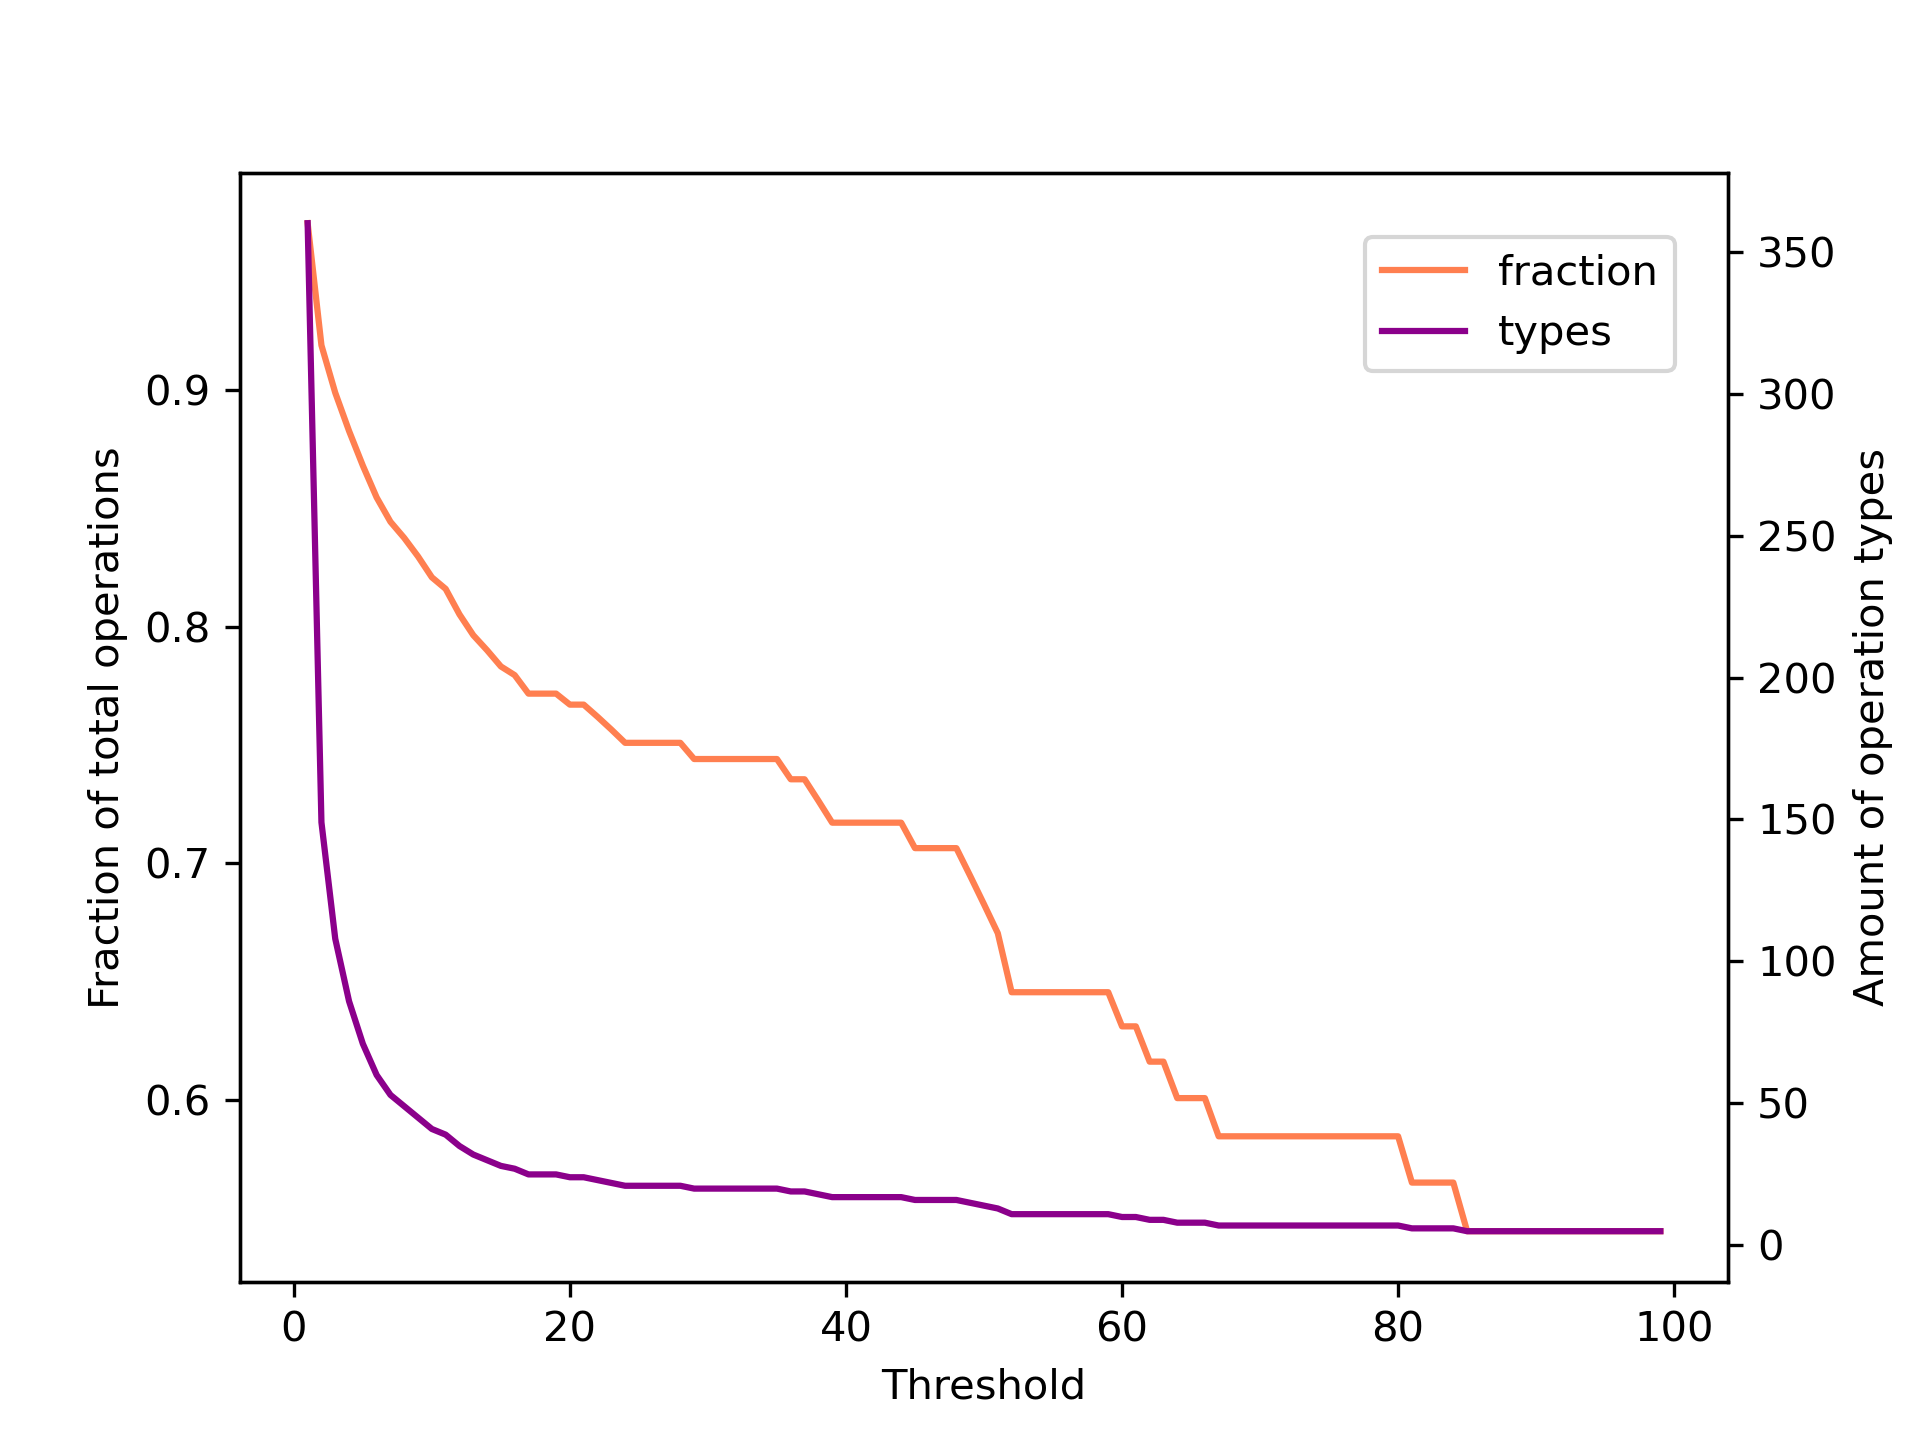
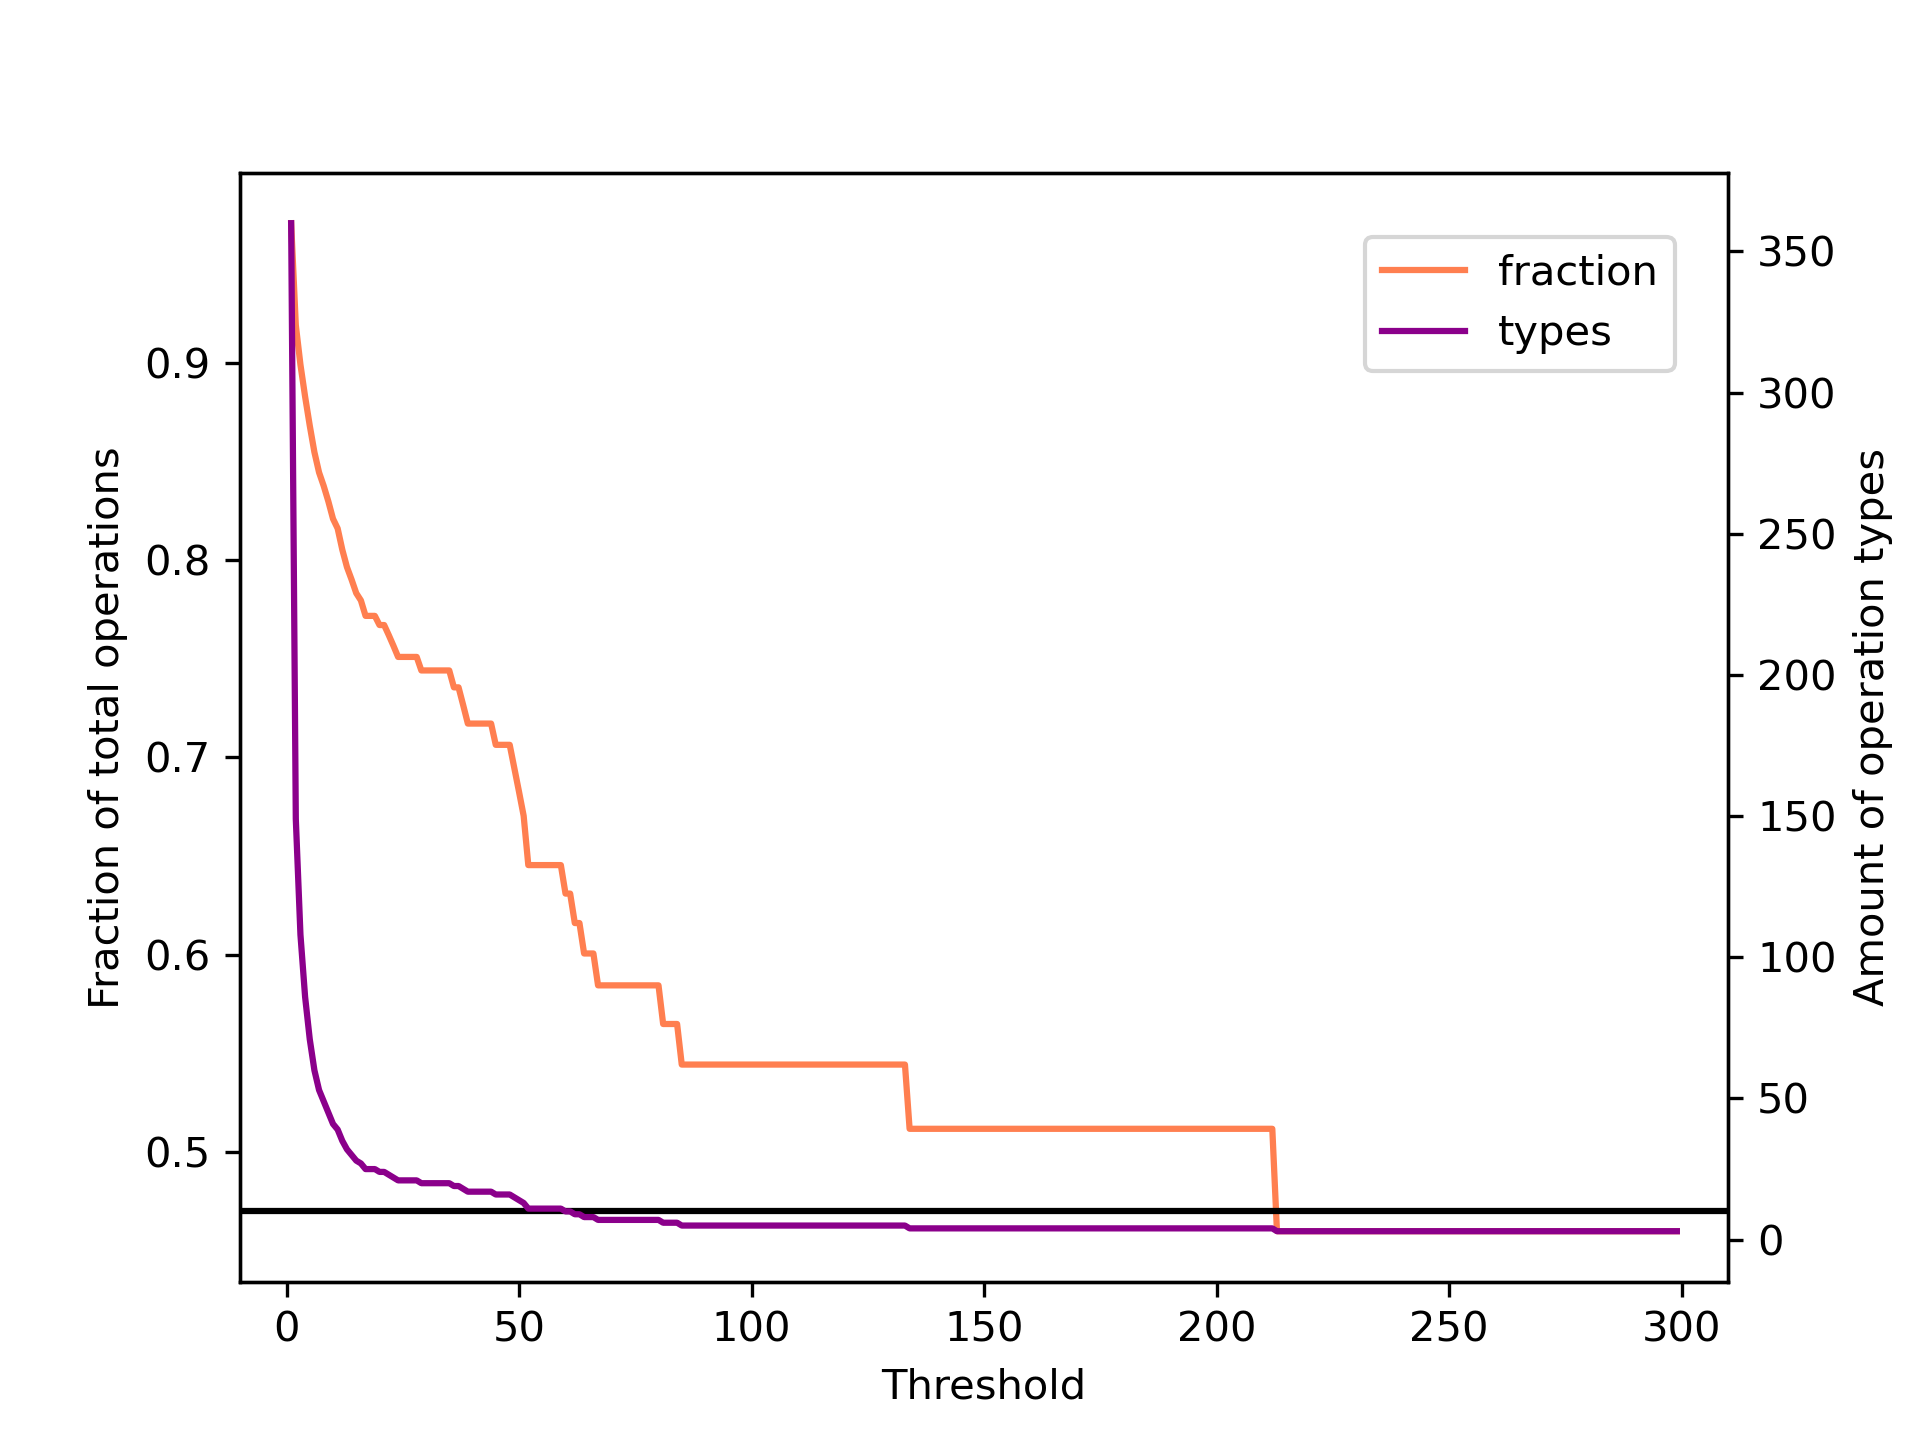
added normal DT model + analysis for amount of operations (poor results)

diff --git a/Project/models.py b/Project/models.py
@@ -1,41 +1,46 @@
 ### Contains the models for the predictions
 
+import warnings
+
+warnings.filterwarnings('ignore')
+
 import pandas as pd
 import numpy as np
-import math
-import matplotlib.pyplot as plt
-import seaborn as sn
-from sklearn import linear_model
+from sklearn.linear_model import LinearRegression
 from sklearn.model_selection import train_test_split
 from sklearn.metrics import mean_squared_error
 from sklearn.metrics import r2_score
 from sklearn.ensemble import RandomForestRegressor
+from sklearn.tree import DecisionTreeRegressor
 from sklearn.neural_network import MLPRegressor
 import pyearth
 
 data_file = 'surgical_case_durations.csv'
 data = pd.read_csv(data_file, sep=';', encoding='ISO-8859-1')
 
+
 # Replace values in dataset such that we can work with it
 def int_to_str_map(number):
     number = number.split('.')[0]
     string = ""
-    mapping = {1: "A", 2: "B", 3: "C", 4:"D", 5: "E", 6: "F", 7: "G", 8: "H", 9: "I", 10 : "J", 11: "K", 12: "L",
-               13: "M", 14: "N", 15: "O", 16: "P", 17: "Q", 18 : "R", 19 : "S", 20: "T", 21: "U", 22: "V", 23: "W",
-               24: "X", 25 : "Y", 26: "Z"}
+    mapping = {1: "A", 2: "B", 3: "C", 4: "D", 5: "E", 6: "F", 7: "G", 8: "H", 9: "I", 10: "J", 11: "K", 12: "L",
+               13: "M", 14: "N", 15: "O", 16: "P", 17: "Q", 18: "R", 19: "S", 20: "T", 21: "U", 22: "V", 23: "W",
+               24: "X", 25: "Y", 26: "Z"}
     string += str(mapping.get(int(number)))
     return string
+
 
 def preprocess_data(df):
     df.replace(to_replace=',', value='.', inplace=True, regex=True)  # replace ',' with '.'
     df.replace(to_replace='Onbekend', inplace=True, value=np.nan)  # remove nan
     df.replace(to_replace='Ander specialisme', inplace=True, value=np.nan)  # replace 'other' surgeon
     # Change categories to letters so they will be categories later
-    df['Chirurg'] = df['Chirurg'][df['Chirurg'].notna()].apply(lambda x : int_to_str_map(str(x)))
-    df['Anesthesioloog'] = df['Anesthesioloog'][df['Anesthesioloog'].notna()].apply(lambda x : int_to_str_map(str(x)))
+    df['Chirurg'] = df['Chirurg'][df['Chirurg'].notna()].apply(lambda x: int_to_str_map(str(x)))
+    df['Anesthesioloog'] = df['Anesthesioloog'][df['Anesthesioloog'].notna()].apply(lambda x: int_to_str_map(str(x)))
     df['CCS'] = df['CCS'][df['CCS'].notna()].apply(lambda x: int_to_str_map(str(x)))
     df['NYHA'] = df['NYHA'][df['NYHA'].notna()].apply(lambda x: int_to_str_map(str(x)))
     return df
+
 
 # Determine which features can be used to predict
 def calc_variance_categorial(df, cols, target, show=False):
@@ -61,9 +66,9 @@ def calc_variance_categorial(df, cols, target, show=False):
             total_var += var * weight  # sum variances
         results.append([name, len(keys), total_var, total_var / varTarget])
 
-    results = sorted(results, key=lambda x: x[2]) # sort results based on fraction of variance
+    results = sorted(results, key=lambda x: x[2])  # sort results based on fraction of variance
 
-    if show: # print results
+    if show:  # print results
         for feature, nkeys, var, frac in results:
             print(feature, '& %.2f' % frac)
 
@@ -86,7 +91,7 @@ target = 'Operatieduur'
 categorial_variance = calc_variance_categorial(data, categorical_cols, target, False)
 
 ## Remove data
-threshold = 20
+threshold = 35  # determined to have 10 sugery types left : 61
 operation_groups = data.fillna(-1).groupby('Operatietype')
 removed_types = []
 for key in operation_groups.groups.keys():
@@ -104,36 +109,77 @@ for name, nkeys, var, frac in categorial_variance:
 data = data[data['Operatieduur'].notna()]  # remove nan surgery durations
 all_features = [l[0] for l in categorial_variance]  # list of all features
 result = []
+options = ['LR', 'MARS', 'DT', 'RT', 'MLP']
 
-## Make models + predictions
-for i in range(1,3):
-    features = all_features[0:i]
-    Y = data['Operatieduur']
-    X = data[features]
-    X_train, X_test, Y_train, Y_test = train_test_split(X, Y, test_size=0.20)
+# Make models + predictions
+nfeatures = 4  # best result : 4
+seed = 41  # to make results reproducable
+features = all_features[0:nfeatures]  # select right features
+features.append('Operatieduur')
 
-    # Linear regression
-    LR = linear_model.LinearRegression()
-    LR.fit(X_train, Y_train)
-    LR_predictions = LR.predict(X_test)
+# Remove nan groups
+for name, values in data[features].iteritems():
+    groups = data.groupby(name)
+    keys = groups.groups.keys()
+    for key in keys:
+        if key == -1:  # remove nan group (-1)
+            data = data.drop(groups.get_group(key).index)
 
-    # Multivariate adaptive regression splines
-    MARS = pyearth.Earth()
-    MARS.fit(X_train, Y_train)
-    MARS_predictions = MARS.predict(X_test)
+Y = data['Operatieduur']
+X = data[features[0:nfeatures]]
+X_train, X_test, Y_train, Y_test = train_test_split(X, Y, test_size=0.20, random_state=seed)
 
-    # Random forest
-    RF = RandomForestRegressor(n_estimators=1000, random_state=42)
-    RF.fit(X_train, Y_train)
-    RF_predictions = RF.predict(X_test)
+# Linear regression
+LR = LinearRegression()
+LR.fit(X_train, Y_train)
+LR_predictions = LR.predict(X_test)
+result.append([mean_squared_error(Y_test, LR_predictions) ** (1 / 2), r2_score(Y_test, LR_predictions)])
 
-    # Multilayer perceptron network
-    MLP = MLPRegressor(activation='relu')
-    MLP.fit(X_train, Y_train)
-    MLP_predictions = MLP.predict(X_test)
+# Multivariate adaptive regression splines
+MARS = pyearth.Earth()
+MARS.fit(X_train, Y_train)
+MARS_predictions = MARS.predict(X_test)
+result.append([mean_squared_error(Y_test, MARS_predictions) ** (1 / 2), r2_score(Y_test, MARS_predictions)])
 
-    # Store results
-    result.append([mean_squared_error(Y_test, LR_predictions)**(1/2),   r2_score(Y_test, LR_predictions),
-                   mean_squared_error(Y_test, MARS_predictions)**(1/2), r2_score(Y_test, MARS_predictions),
-                   mean_squared_error(Y_test, RF_predictions) ** (1/2), r2_score(Y_test, RF_predictions),
-                   mean_squared_error(Y_test, MLP_predictions) ** (1 / 2), r2_score(Y_test, MLP_predictions)])
+# Decision tree
+DT = DecisionTreeRegressor(random_state=seed)
+DT.fit(X_train, Y_train)
+DT_predictions = DT.predict(X_test)
+result.append([mean_squared_error(Y_test, DT_predictions) ** (1 / 2), r2_score(Y_test, DT_predictions)])
+
+# Random forest
+RF = RandomForestRegressor(n_estimators=500, random_state=seed, criterion='mse')
+RF.fit(X_train, Y_train)
+RF_predictions = RF.predict(X_test)
+result.append([mean_squared_error(Y_test, RF_predictions) ** (1 / 2), r2_score(Y_test, RF_predictions)])
+
+# Multilayer perceptron network
+MLP = MLPRegressor(activation='relu', solver='adam')
+MLP.fit(X_train, Y_train)
+MLP_predictions = MLP.predict(X_test)
+result.append([mean_squared_error(Y_test, MLP_predictions) ** (1 / 2), r2_score(Y_test, MLP_predictions)])
+
+result = list(np.around(np.array(result), decimals=2))
+print('Method', 'MSE', 'R2')
+for i in range(0, len(result)):
+    print(options[i], ':', ' '.join(map(str, result[i])))
+
+# print()
+# result = list(np.around(np.array(result), decimals=2))
+# print('LR'.rjust(4), 'MARS'.rjust(12), 'DT'.rjust(8), 'RF'.rjust(10), 'MLP'.rjust(11))
+# print('#', 'MSE'.rjust(2), 'R2'.rjust(4), 'MSE'.rjust(5), 'R2'.rjust(4), 'MSE'.rjust(5), 'R2'.rjust(3), 'MSE'.rjust(4), 'R2'.rjust(3),
+#       'MSE'.rjust(4), 'R2'.rjust(3))
+# for i in range(0, len(result)):
+#     print(nfeatures, ' '.join(map(str, result[i])))
+
+# plt.figure()
+# plt.plot(range(1, len(result) + 1), [l[1] for l in result], label='LR')
+# plt.plot(range(1, len(result) + 1), [l[3] for l in result], label='MARS')
+# plt.plot(range(1, len(result) + 1), [l[5] for l in result], label='RF')
+# plt.plot(range(1, len(result) + 1), [l[7] for l in result], label='MLP')
+# plt.legend()
+# plt.xlabel('Amount of variables')
+# plt.ylabel('R2')
+# plt.grid()
+# plt.savefig('figures/r2_per_feature_amount.png', dpi=300)
+# plt.show()

diff --git a/Project/main.py b/Project/main.py
@@ -129,7 +129,7 @@ for key in operation_groups.groups.keys() - [-1]:
 
 foperations_per_threshold = []
 ntypes_per_threshold = []
-nthresholds = 100
+nthresholds = 300
 for threshold in range(1,nthresholds):
     total_operations = 0
     operation_types = 0
@@ -148,13 +148,16 @@ ax.set_xlabel('Threshold')
 ax.set_ylabel('Fraction of total operations')
 ax2 = ax.twinx()
 ax2.plot(range(1,nthresholds), ntypes_per_threshold, color='darkmagenta', label='types')
+ax2.hlines(y=10, xmin=-10, xmax=nthresholds+10, colors='k')
 ax2.set_ylabel('Amount of operation types')
 fig.legend(bbox_to_anchor=(0.7, 0.85), loc='upper left', ncol=1)
-# plt.tight_layout()
+ax2.set_xlim(right=310, left=-10)
 plt.savefig('figures/threshold_operations.png', dpi=300)
 
-## TODO: justify
-threshold = 30
+noperations_goal = 20  # amount of operations to predict
+threshold = [n for n,i in enumerate(ntypes_per_threshold) if i < noperations_goal][0]
+print('Threshold is:', threshold)
+print('Percentage of data left:', foperations_per_threshold[threshold])
 
 target = 'Operatieduur'
 groups = data.fillna(-1).groupby('Operatietype')
